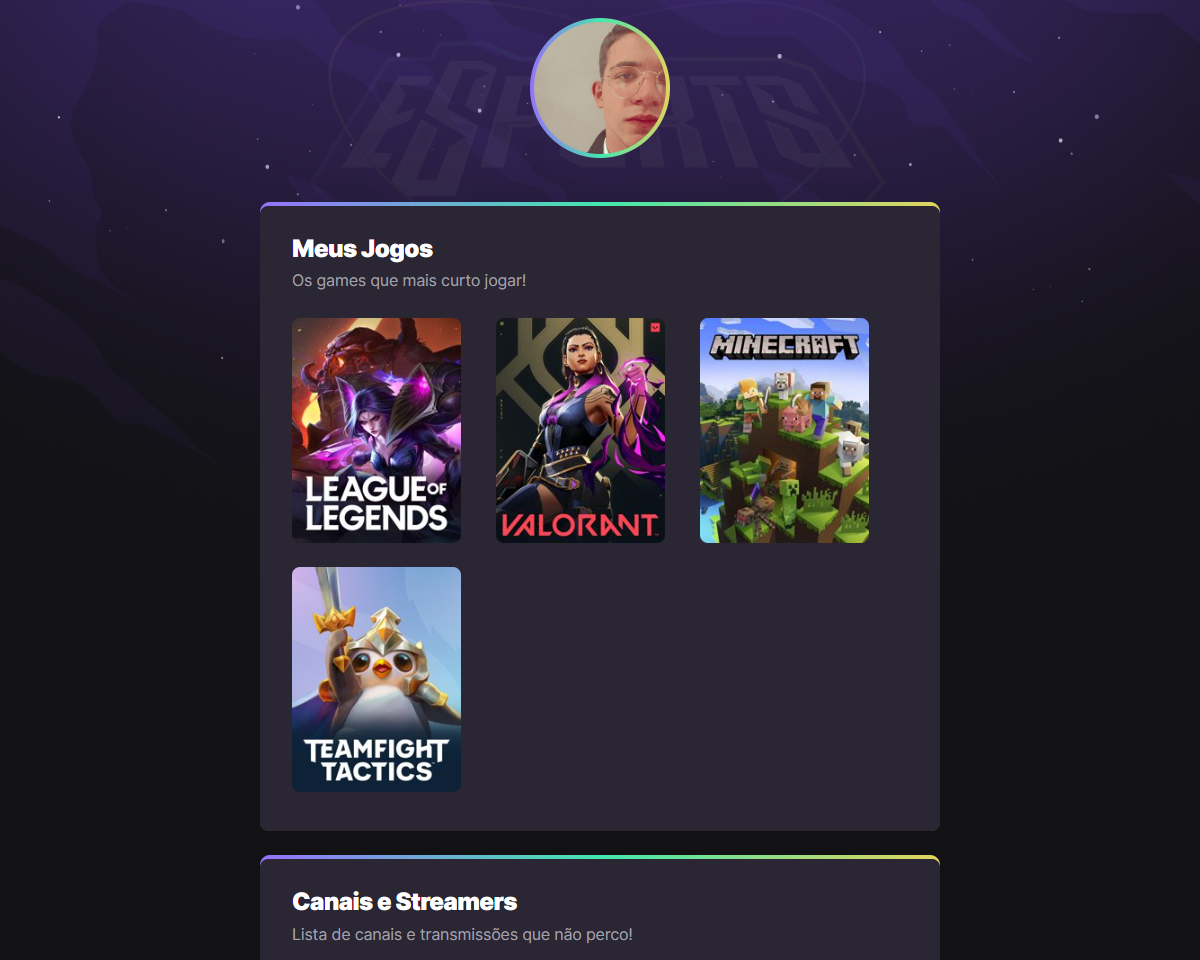
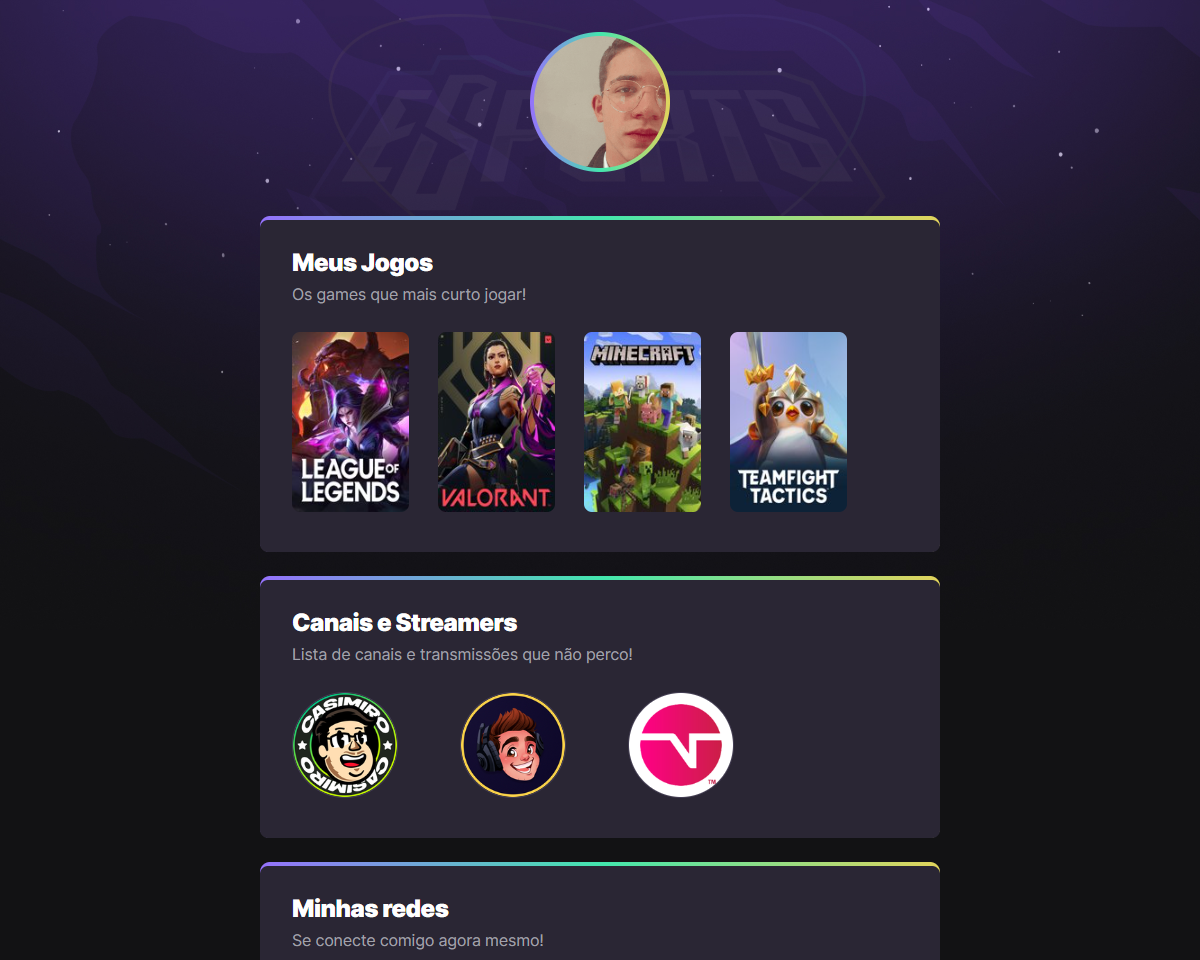
modified:   .github/preview.png new file:   .vscode/settings.json modified:   index.html

Changed region(s): [[0.2158, 0.0, 0.8017, 1.0]]

diff --git a/index.html b/index.html
@@ -37,7 +37,7 @@
                             <a 
                             target="_blank"
                             href="https://www.twitch.tv/directory/game/League%20of%20Legends">
-                                <img src="https://static-cdn.jtvnw.net/ttv-boxart/21779-188x250.jpg" alt="Imagem de League of Legends">
+                                <img src="https://static-cdn.jtvnw.net/ttv-boxart/21779-130x200.jpg" alt="Imagem de League of Legends">
                             </a>
                         </li>
                         
@@ -45,7 +45,7 @@
                             <a 
                             target="_blank"
                             href="https://www.twitch.tv/directory/game/VALORANT">
-                                <img src="https://static-cdn.jtvnw.net/ttv-boxart/516575-188x250.jpg" alt="Imagem de Valorant">
+                                <img src="https://static-cdn.jtvnw.net/ttv-boxart/516575-130x200.jpg" alt="Imagem de Valorant">
                             </a>
                         </li>
                         
@@ -53,7 +53,7 @@
                             <a 
                             target="_blank"
                             href="https://www.twitch.tv/directory/game/Minecraft">
-                                <img src="https://static-cdn.jtvnw.net/ttv-boxart/27471_IGDB-188x250.jpg" alt="Imagem de Minecraft">
+                                <img src="https://static-cdn.jtvnw.net/ttv-boxart/27471_IGDB-130x200.jpg" alt="Imagem de Minecraft">
                             </a>
                         </li>
                         
@@ -61,7 +61,7 @@
                             <a 
                             target="_blank"
                             href="https://www.twitch.tv/directory/game/Teamfight%20Tactics">
-                                <img src="https://static-cdn.jtvnw.net/ttv-boxart/513143-188x250.jpg" alt="Imagem de TeamfightTactics">
+                                <img src="https://static-cdn.jtvnw.net/ttv-boxart/513143-130x200.jpg" alt="Imagem de TeamfightTactics">
                             </a>
                         </li>
 
